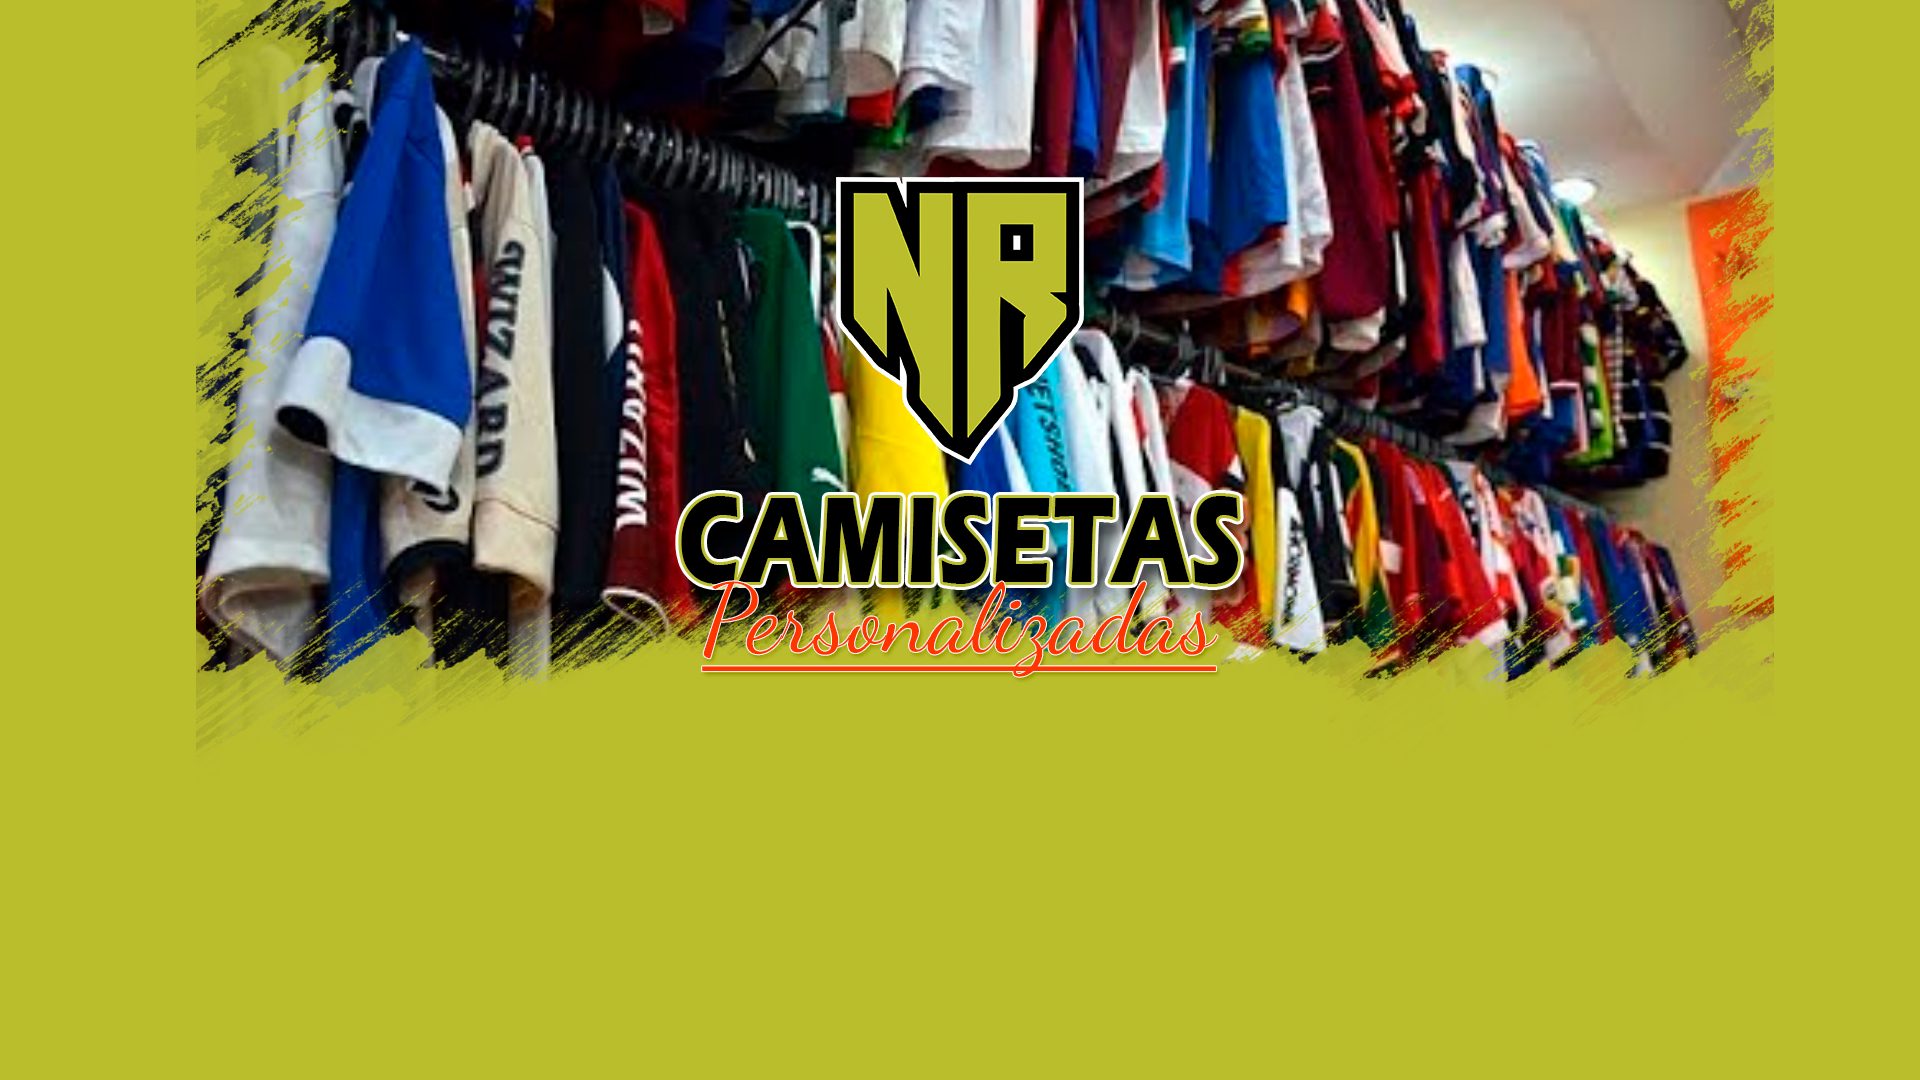
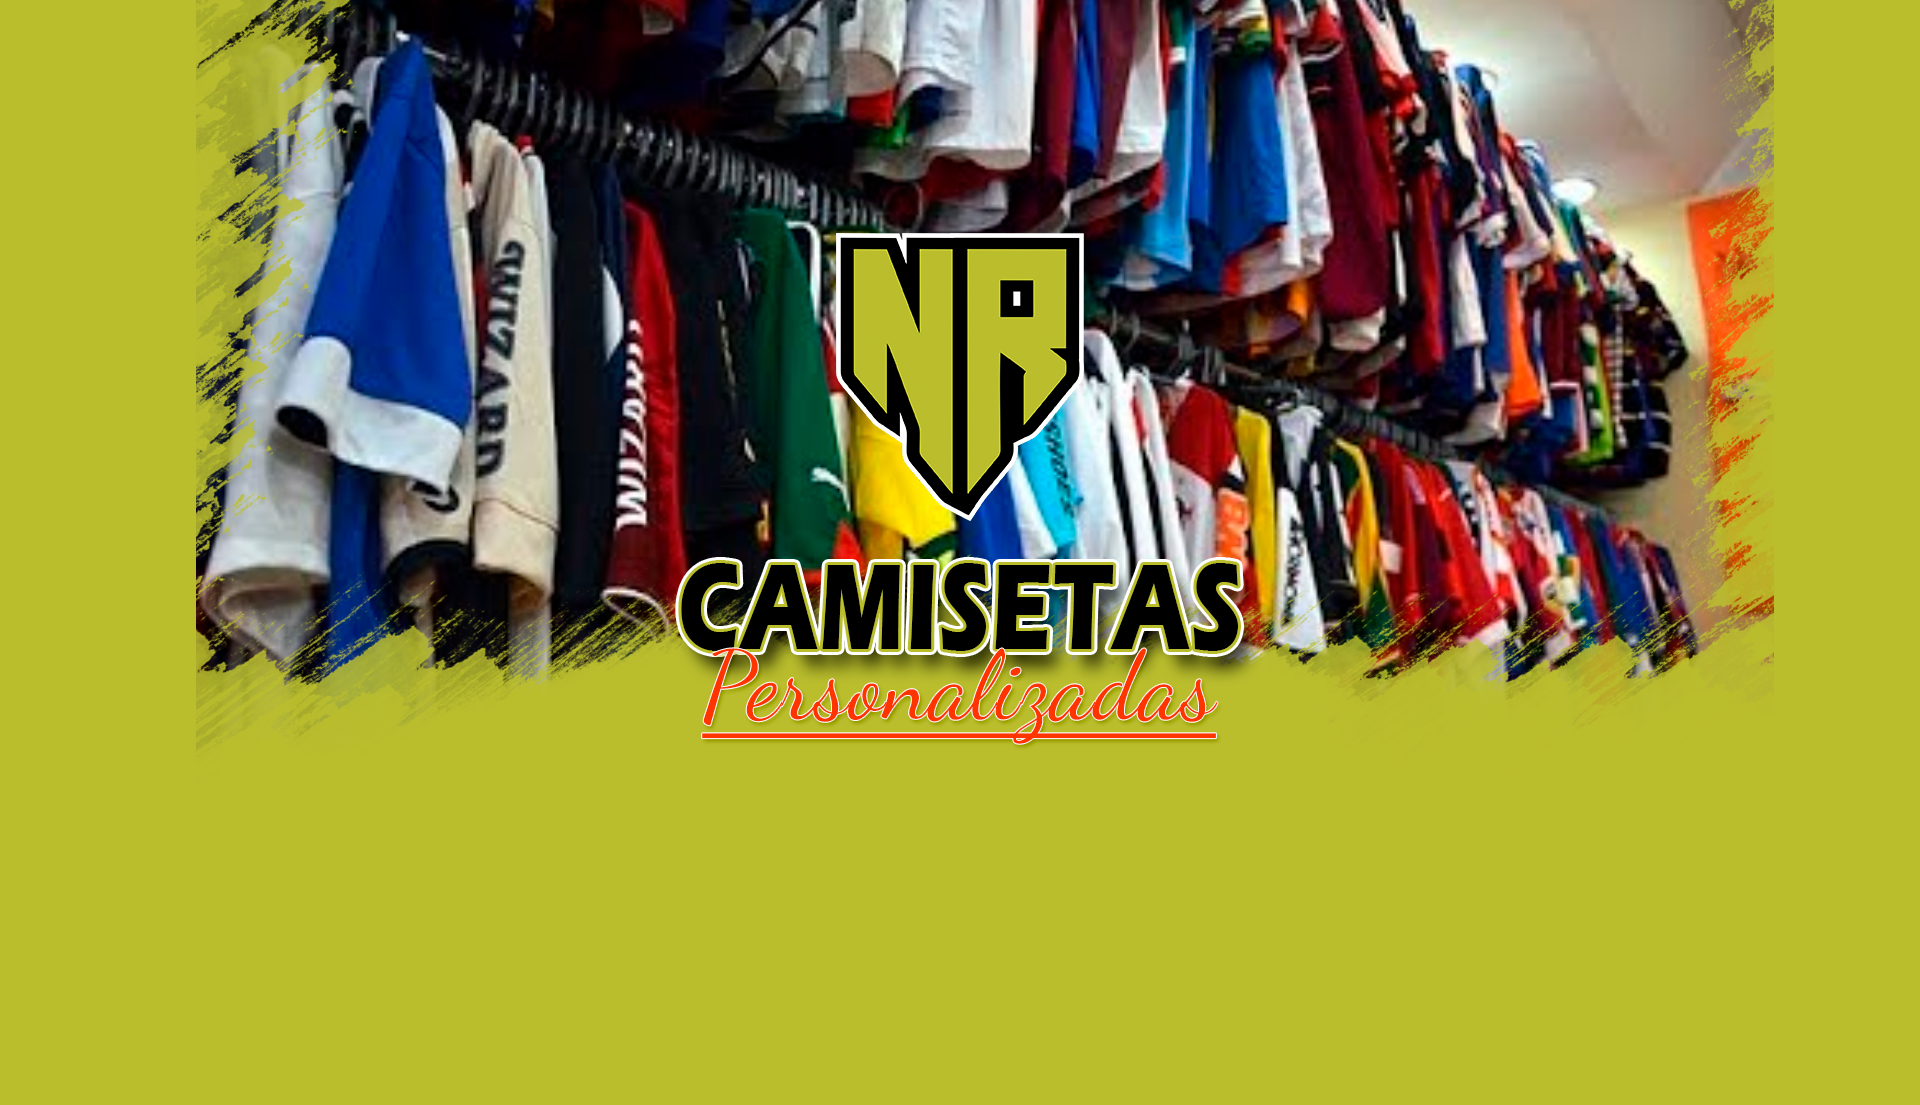
++

diff --git a/index.html b/index.html
@@ -4,7 +4,7 @@
     <meta charset="UTF-8" />
     <meta http-equiv="X-UA-Compatible" content="IE=edge" />
     <meta name="viewport" content="width=device-width, initial-scale=1.0" />
-    <meta name="description" content="Designer Web" />
+    <meta name="description" content="Faça sua camiseta personalizada" />
 
     <!-- jQuery -->
     <script src="//code.jquery.com/jquery-1.10.2.js"></script>
@@ -110,7 +110,7 @@
       </div>
 
         
-      
+      <!-- 
       <div class="header-icon-dw"> 
         
         <a href="#galeria">
@@ -130,7 +130,7 @@
           </svg>
         </a>
       </div>
-      
+      -->
       
       
     </div>

diff --git a/css/desing.css b/css/desing.css
@@ -174,7 +174,7 @@ h2,h3{
 
 .adds{  
   position: absolute;
-  top: 55%; 
+  top: 60%; 
   margin-top: 15px;
   
   text-align: center;  
